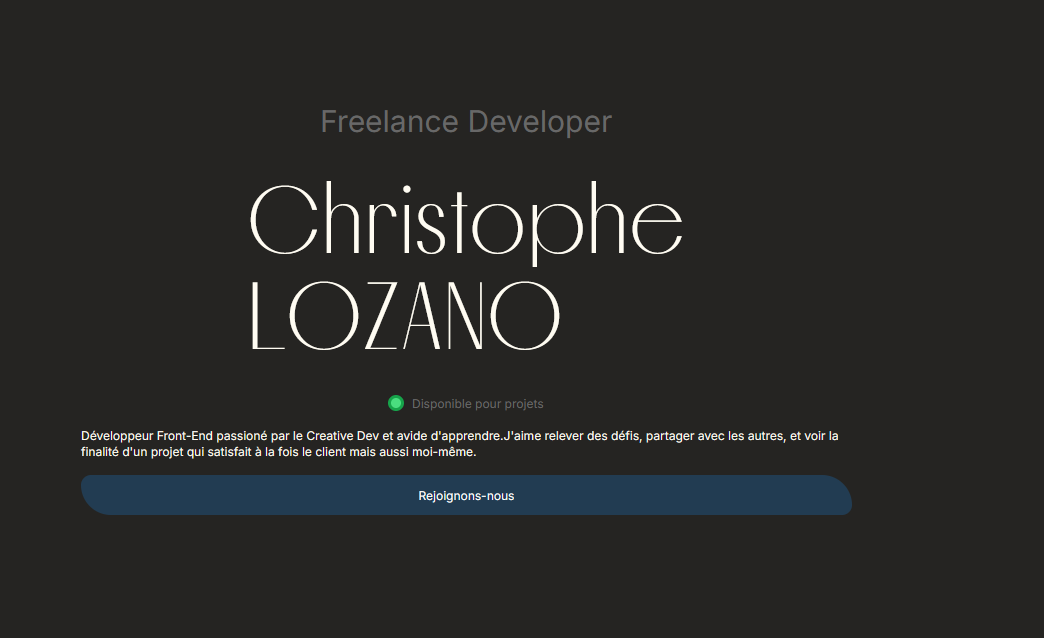
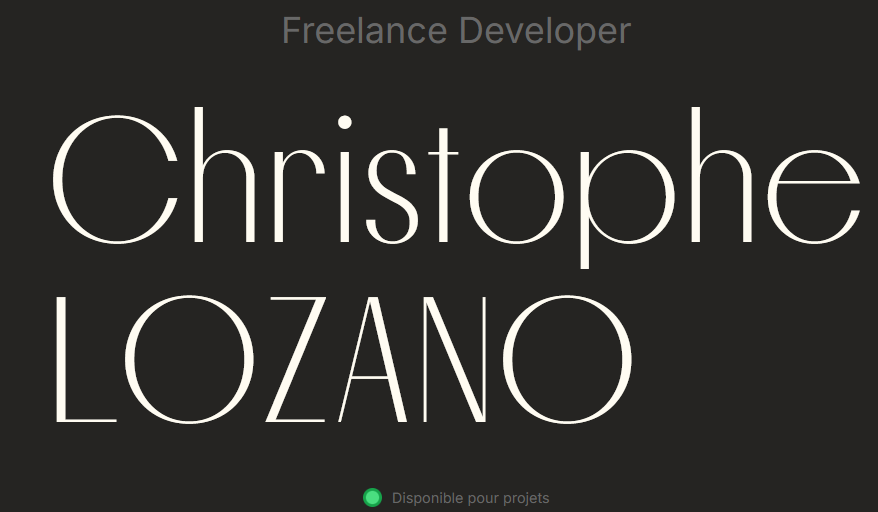
changed colors + three camera

diff --git a/src/components/hero/Hero.jsx b/src/components/hero/Hero.jsx
@@ -5,7 +5,13 @@ import React, { Suspense, useEffect, useRef, useState } from "react";
 import SplitType from "split-type";
 import { Canvas } from "@react-three/fiber";
 import GlassPortal from "../3d/GlassPortal";
-import { Environment, Float, OrbitControls, Stage } from "@react-three/drei";
+import {
+  Environment,
+  Float,
+  OrbitControls,
+  PresentationControls,
+  Stage,
+} from "@react-three/drei";
 import { useTranslation } from "react-i18next";
 
 const Hero = () => {
@@ -91,6 +97,10 @@ const Hero = () => {
     { scope: container },
   );
 
+  const join = () => {
+    window.location = "mailto:xyz@yourapplicationdomain.com";
+  };
+
   return (
     <div
       // data-lenis-stop={false}
@@ -132,9 +142,12 @@ const Hero = () => {
               <p className="join text-xs md:w-1/2 lg:w-2/3">
                 {t("hero_intro")}
               </p>
-              <div className="join w-full rounded-bl-[30px] rounded-br-[10px] rounded-tl-[10px] rounded-tr-[30px] bg-customBlue py-3 text-center text-xs text-white md:w-1/2 lg:w-2/3">
-                {t("hero_join")}
-              </div>
+              <a
+                className="join w-full cursor-pointer rounded-bl-[30px] rounded-br-[10px] rounded-tl-[10px] rounded-tr-[30px] bg-customBlue py-3 text-center text-xs text-white md:w-1/2 lg:w-2/3"
+                href="mailto:"
+              >
+                <button type="button">{t("hero_join")}</button>
+              </a>
             </div>
           </div>
         </div>
@@ -153,16 +166,23 @@ const Hero = () => {
                     floatIntensity={0.5}
                     floatingRange={[0.2, 0.5]}
                   >
-                    <GlassPortal />
+                    <PresentationControls
+                      global={false}
+                      // rotation={[0, 0.3, 0]}
+                      polar={[-Math.PI / 9, Math.PI / 9]}
+                      azimuth={[-Math.PI / 12, Math.PI / 4]}
+                    >
+                      <GlassPortal />
+                    </PresentationControls>
                   </Float>
                 </Stage>
-                <OrbitControls
+                {/* <OrbitControls
                   enableZoom={false}
                   maxPolarAngle={Math.PI / 1.7}
                   minPolarAngle={Math.PI / 3.5}
                   maxAzimuthAngle={Math.PI / 6}
                   minAzimuthAngle={-Math.PI / 6}
-                />
+                /> */}
               </Canvas>
             </Suspense>
           )}

diff --git a/tailwind.config.js b/tailwind.config.js
@@ -47,9 +47,11 @@ module.exports = {
       colors: {
         background: "var(--background)",
         foreground: "var(--foreground)",
-        primary: "#252422",
-        secondary: "#fffcf2",
-        menuBg: "#22333b",
+        primary: "#1E190F",
+        secondary: "#F3F3F3 ",
+        menuBg: "#E7C7A7",
+        footer: "#22333b",
+        menuText: "#1E190F",
         customGrey: "#686868",
         customBlue: "#223C52",
         customBlack: "#464a58",

diff --git a/src/components/footer/Content.jsx b/src/components/footer/Content.jsx
@@ -6,7 +6,7 @@ import { useTranslation } from "react-i18next";
 export default function Content({ pathname }) {
   return (
     <div
-      className={`absolute bottom-0 flex h-full w-full flex-col justify-between bg-menuBg px-6 py-8 text-white md:px-12`}
+      className={`bg-footer absolute bottom-0 flex h-full w-full flex-col justify-between px-6 py-8 text-white md:px-12`}
     >
       {pathname !== "/contact" && (
         <>

diff --git a/src/components/header/Menu.jsx b/src/components/header/Menu.jsx
@@ -60,7 +60,7 @@ const Menu = () => {
       data-lenis-stop
       data-lenis-prevent
       ref={container}
-      className="fixed z-[999] w-full px-5 py-2 text-right text-secondary"
+      className="text-menuText fixed z-[999] w-full px-5 py-2 text-right"
     >
       <div>
         <span onClick={toggleMenu} className="cursor-pointer p-2">

diff --git a/src/components/3d/GlassPortal.jsx b/src/components/3d/GlassPortal.jsx
@@ -39,6 +39,7 @@ const GlassPortal = () => {
             position={[0, 0, 0.8]}
             args={[1.5, 2, 0.12]}
             radius={0.03}
+            scale={0.99}
           >
             <MeshTransmissionMaterial
               transmission={1}

diff --git a/src/i18nConfig.js b/src/i18nConfig.js
@@ -1,6 +1,6 @@
 const i18nConfig = {
   locales: ["fr", "en", "ja"],
-  defaultLocale: "fr",
+  defaultLocale: "en",
 };
 
 module.exports = i18nConfig;
